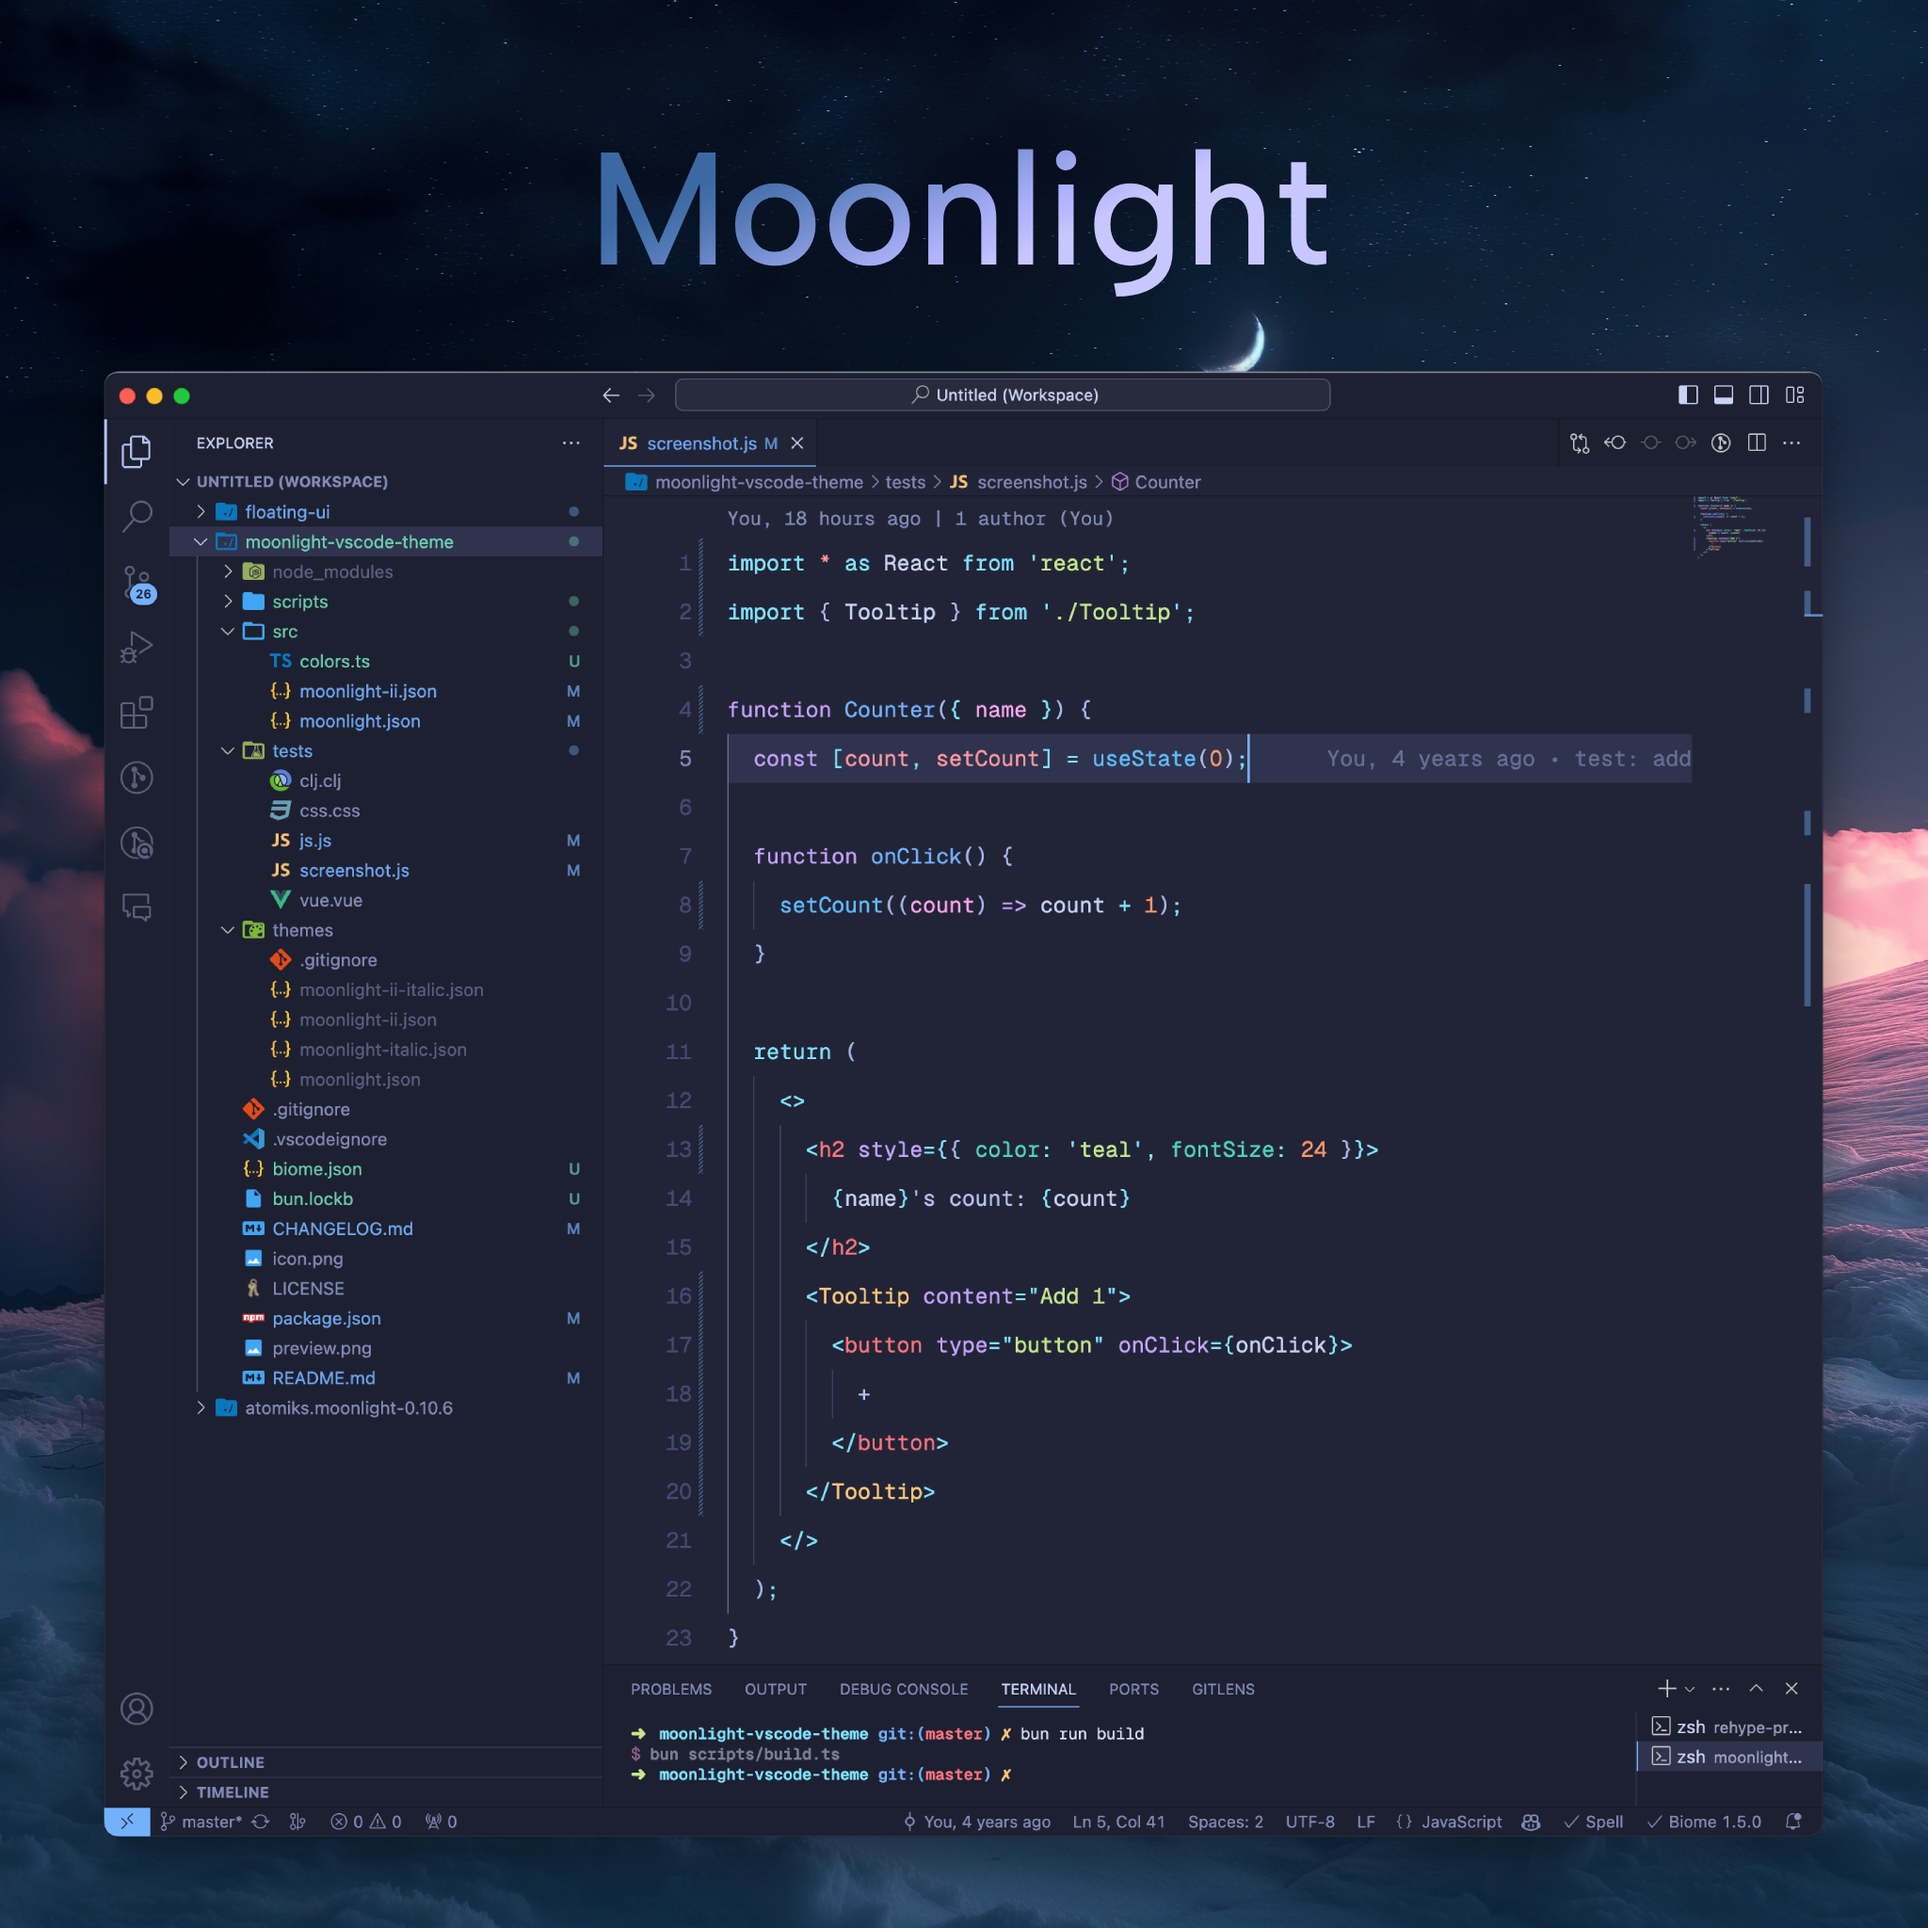
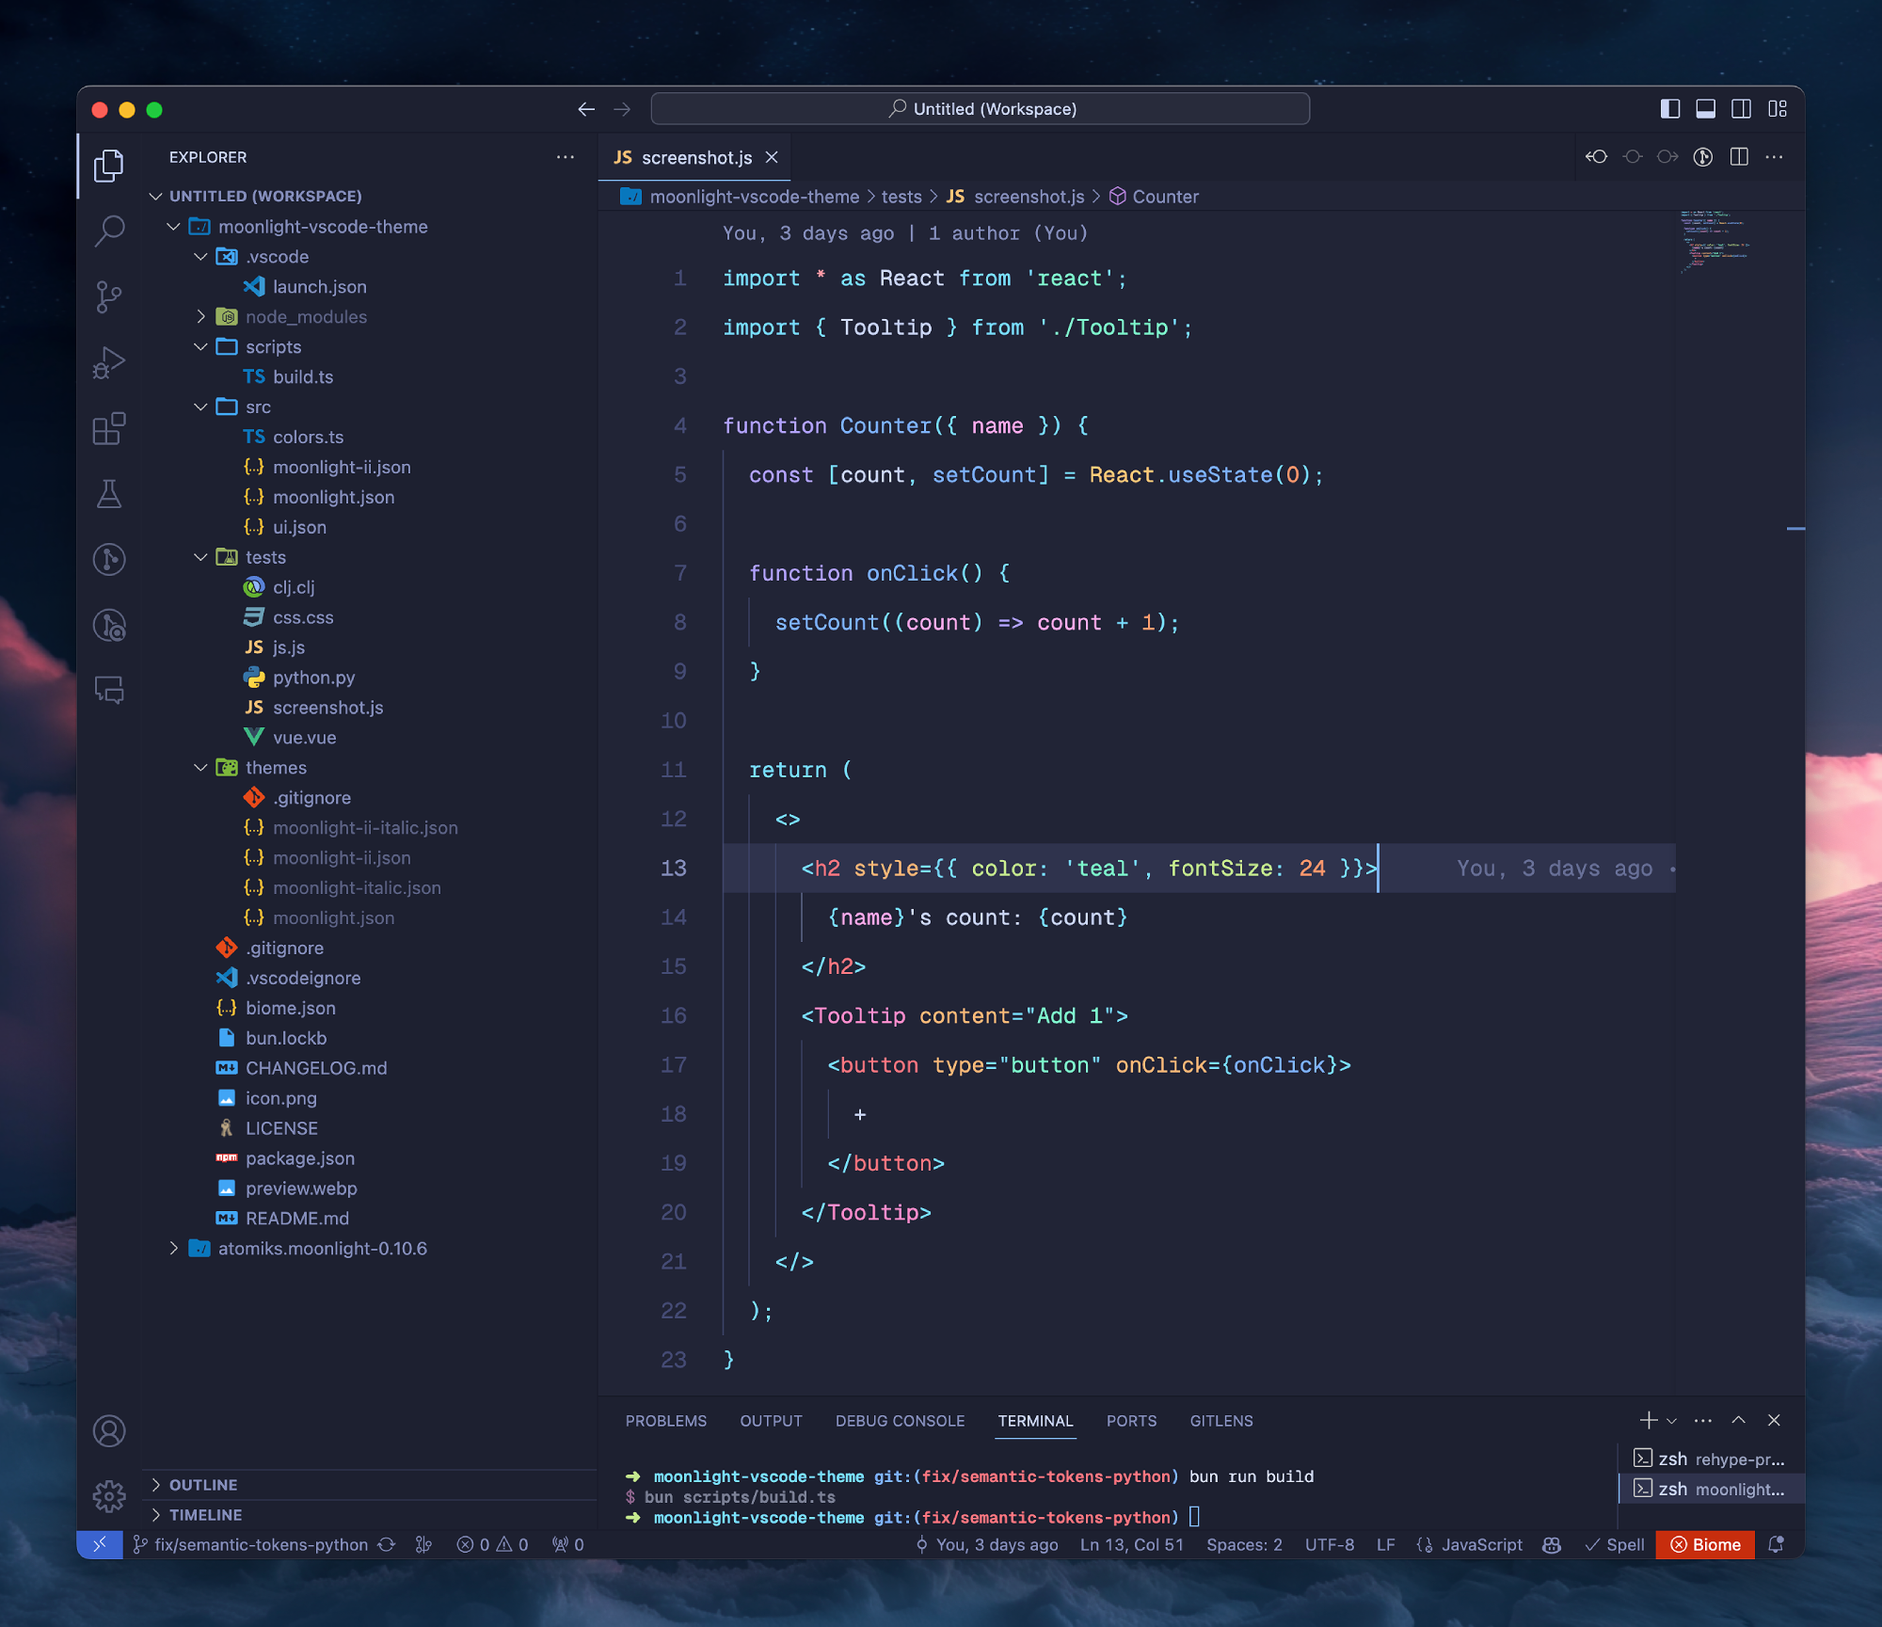
fix: semantic tokens, python, operator fixes (#54)

diff --git a/tests/python.py b/tests/python.py
@@ -1,0 +1,63 @@
+import random
+import functools
+
+# Decorator for logging
+def debug(func):
+    @functools.wraps(func)
+    def wrapper(*args, **kwargs):
+        result = func(*args, **kwargs)
+        print(f"Function {func.__name__!r} returned {result!r}")
+        return result
+    return wrapper
+
+# A simple class with different methods and properties
+class Animal:
+    def __init__(self, name):
+        self._name = name
+
+    @property
+    def name(self):
+        return self._name
+
+    @name.setter
+    def name(self, value):
+        self._name = value
+
+    def speak(self):
+        raise NotImplementedError("Subclasses must implement this method")
+
+class Dog(Animal):
+    def speak(self):
+        return f"{self._name} says woof!"
+
+class Cat(Animal):
+    def speak(self):
+        return f"{self._name} says meow!"
+
+# A function that handles exceptions
+@debug
+def random_animal_speak(animals):
+    try:
+        choice = random.choice(animals)
+        speak = choice.speak()
+    except IndexError as e:
+        print("No animals in the list!")
+    except Exception as e:
+        print(f"An error occurred: {e}")
+    else:
+        return speak
+    finally:
+        print("Function random_animal_speak() is done")
+
+# Using list comprehension, map and lambda
+animals = [Dog("Buddy"), Cat("Whiskers"), Dog("Rex")]
+animal_sounds = map(lambda animal: animal.speak(), animals)
+loud_sounds = [sound.upper() for sound in animal_sounds]
+
+# Main block
+if __name__ == "__main__":
+    for sound in loud_sounds:
+        print(sound)
+    
+    # Print a random animal's sound
+    print(random_animal_speak(animals))

diff --git a/CHANGELOG.md b/CHANGELOG.md
@@ -1,3 +1,12 @@
+## 0.11.1
+
+- Disable default semantic highlighting for Moonlight II
+- More closely match semantic tokens with original TM scopes (Python test)
+- Fix semantic function coloring consistency for all langs
+- Fix non-semantic python function call coloring in some situations
+- Fix operators being italicised incorrectly in italics variants
+- Markdown improvements for original Moonlight
+
 ## 0.11.0
 
 - Refreshed colors

diff --git a/README.md b/README.md
@@ -19,8 +19,9 @@
 
 ## Semantic highlighting
 
-Semantic highlighting is enabled by default. To disable it, add the following to your settings.json:
+Semantic highlighting is enabled by default for `Moonlight`, but not `Moonlight II`. 
+To change the setting, add the following to your settings.json:
 
 ```json
-"editor.semanticHighlighting.enabled": false
+"editor.semanticHighlighting.enabled": true
 ```
